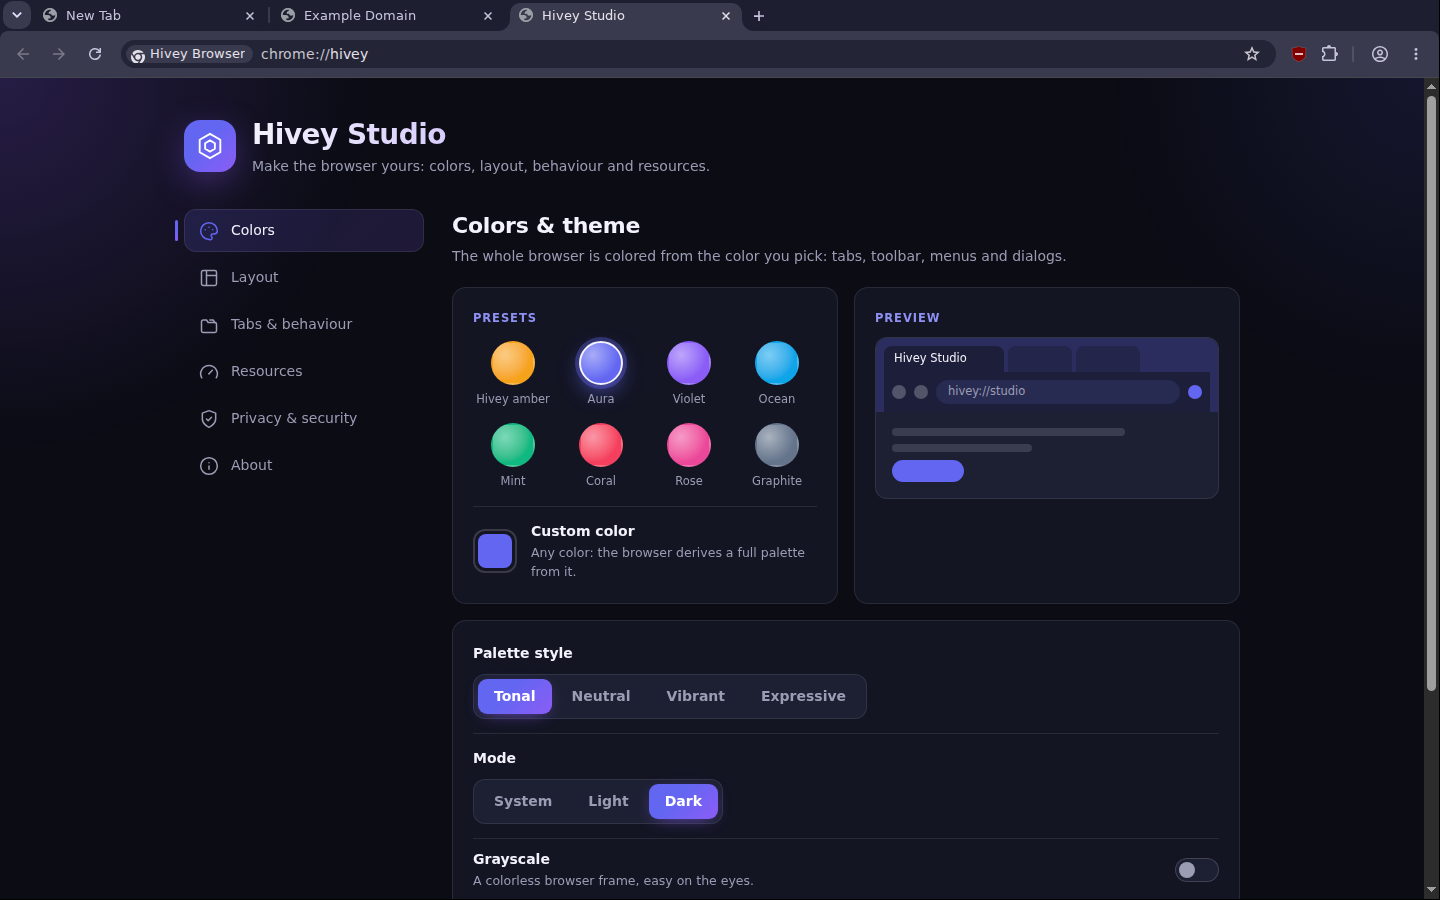
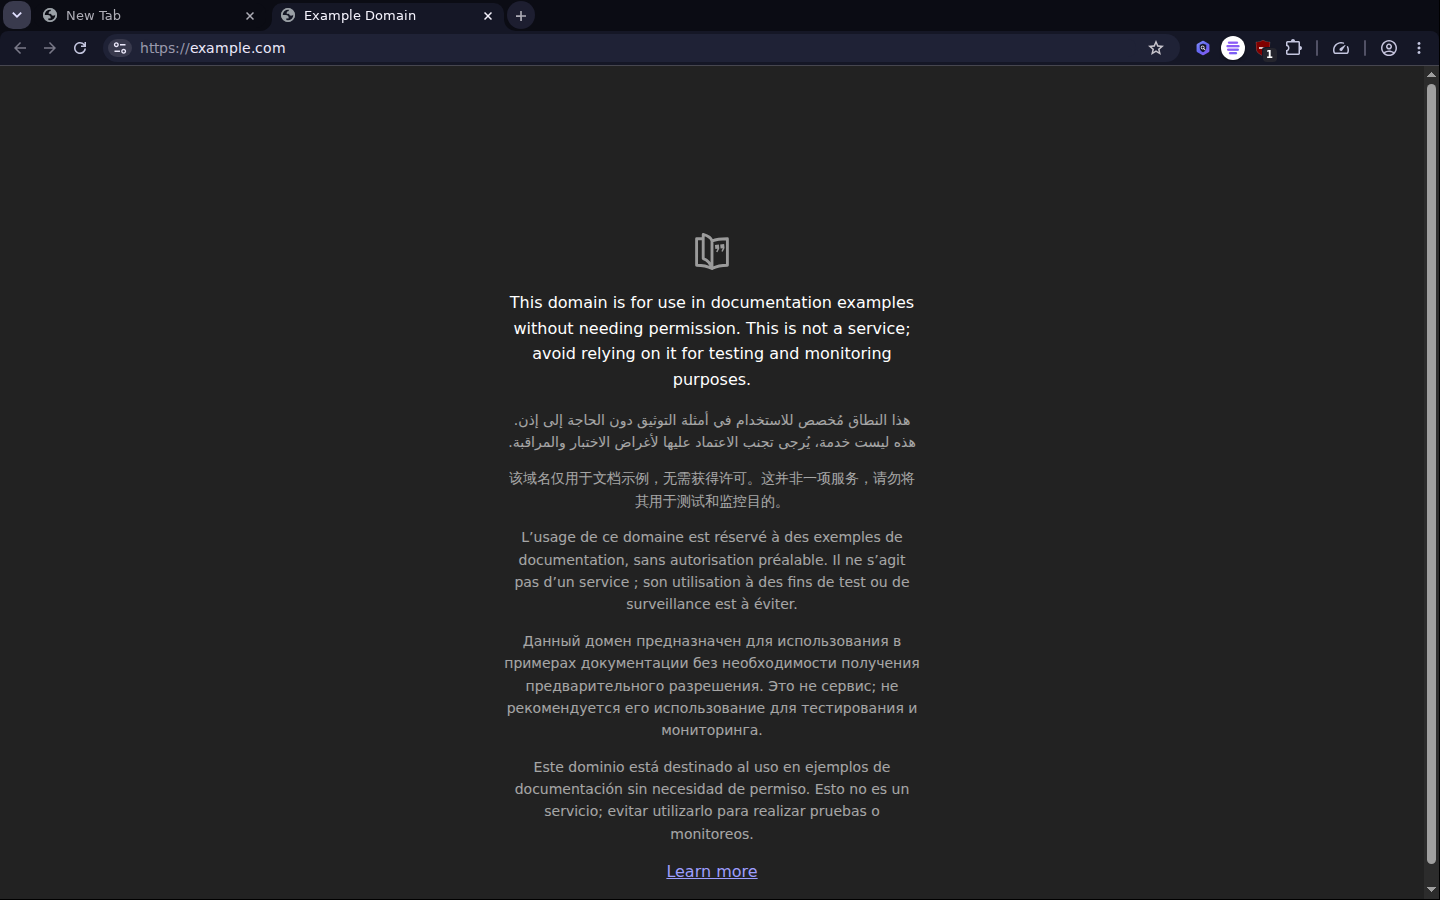
Show CPU and memory in the Resources bubble's hot tabs; refresh the screenshots

diff --git a/docs/USER_GUIDE.md b/docs/USER_GUIDE.md
@@ -81,11 +81,13 @@ right-click on the tab strip, Settings) as they happen.
 The **Resources** button (gauge icon) in the toolbar opens the live gauges,
 the hot tabs and the limiters in a dropdown, like an extension's popup.
 
-![First start: Hivey Studio, with the Hivey Shield icon in the toolbar](images/hivey-studio-first-run.png)
+![First start: Hivey Studio in the Aura theme; in the toolbar, Hivey Cyber, Hivey AI, Hivey Shield and the Resources button](images/hivey-studio-first-run.png)
 
-![Compact mode, Aura color, dark mode](images/compact-mode.png)
+![Compact mode: a lower tab strip and toolbar](images/compact-mode.png)
 
-![Resources: live gauges, limiters and hot tabs](images/hivey-studio-resources.png)
+![Right-click menus take the theme, with the Hivey AI and Hivey Cyber entries](images/context-menu.png)
+
+![The Resources button: live gauges, limiters and hot tabs in a dropdown](images/hivey-studio-resources.png)
 
 ## Memory and performance
 

diff --git a/README.md b/README.md
@@ -31,7 +31,7 @@ Linux, built on [ungoogled-chromium](https://github.com/ungoogled-software/ungoo
   published automatically; installed browsers update themselves from signed
   releases.
 
-![Vertical tabs, the Aura color and dark mode, set in Hivey Studio](docs/images/vertical-tabs-aura-dark.png)
+![Vertical tabs in the Aura theme: the tab strip takes the toolbar color](docs/images/vertical-tabs-aura-dark.png)
 
 ## Platforms
 
